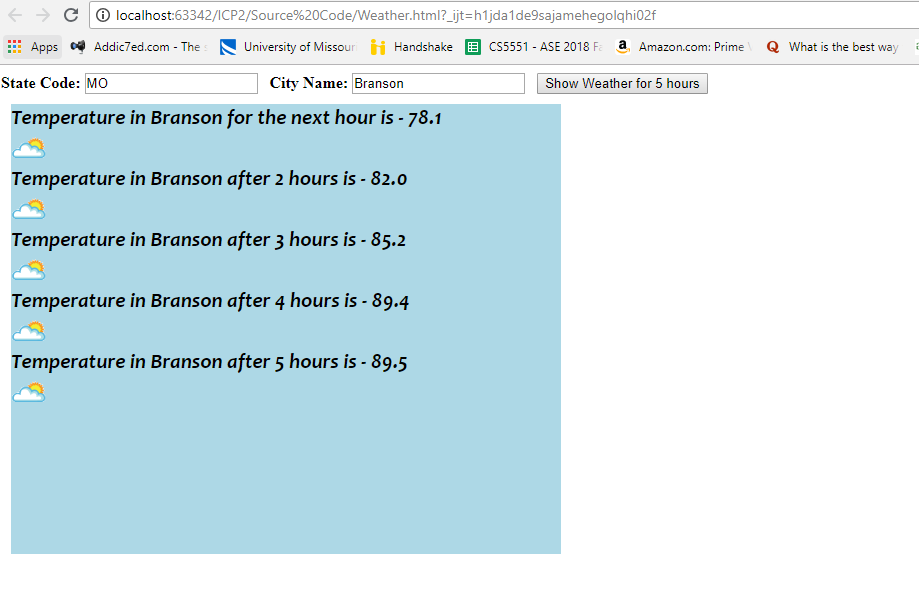
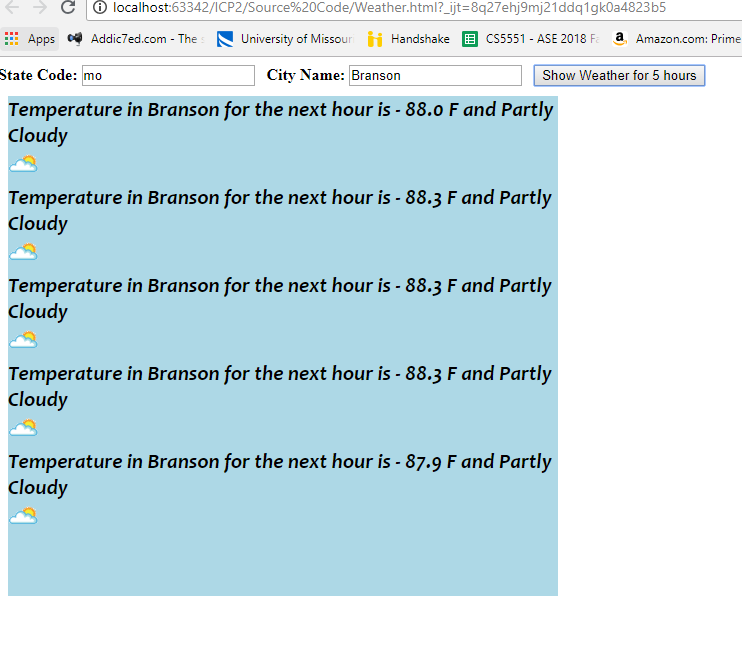
Modifications done in code part.

Changed region(s): [[0.0, 0.0, 1.0, 0.9347]]

diff --git a/ICP2/Source Code/Weather.html b/ICP2/Source Code/Weather.html
@@ -6,7 +6,7 @@
         .weatherModule
         {
             width: 550px;
-            height: 450px;
+            height: 500px;
             margin: 10px;
             font-size: 21px;
             font-style: italic;
@@ -22,23 +22,23 @@
     <b>City Name: </b><input type="text" ng-model="cityname"> &nbsp;
     <button id="btn" ng-click="getWeather()"> Show Weather for 5 hours </button>
     </br>
-    <div class="weatherModule">
-        <b>{{currentweather()}}</b> <br>
-        <img height="35px" align="top" src={{currentIcon}}><br>
+    <div  class="weatherModule">
+        <b>{{currentweather[0]}}</b> <br>
+        <img height="30px" src={{currentIcon[0]}} > <br>
 
-        <b>{{currentweather1()}}</b> <br>
-        <img height="35px" align="top" src={{currentIcon1}}><br>
+        <b>{{currentweather[1]}}</b> <br>
+        <img height="30px" src={{currentIcon[1]}} > <br>
 
-        <b>{{currentweather2()}}</b> <br>
-        <img height="35px" align="top" src={{currentIcon2}}><br>
+        <b>{{currentweather[2]}}</b> <br>
+        <img height="30px" src={{currentIcon[2]}} > <br>
 
-        <b>{{currentweather3()}}</b> <br>
-        <img height="35px" align="top" src={{currentIcon3}}><br>
+        <b>{{currentweather[3]}}</b> <br>
+        <img height="30px" src={{currentIcon[3]}} > <br>
 
-        <b>{{currentweather4()}}</b> <br>
-        <img height="35px" align="top" src={{currentIcon4}}><br>
-
+        <b>{{currentweather[4]}}</b> <br>
+        <img height="30px" src={{currentIcon[4]}} > <br>
     </div>
+
 
 </div>
 
@@ -48,46 +48,25 @@
             console.log("hi");
             $scope.getWeather = function() {
                  $http.get('http://api.wunderground.com/api/4bbbc25f4f5946dd/hourly/q/'+$scope.statecode+'/'+$scope.cityname +'.json').success(function(data) {
-                    temp="";
+                    temp=[];
+                    weathers=[];
+                    icon=[];
                     console.log(data);
 
-                    // for (i=0;i<5;i++)
-                    //  {
-                    //      temp =temp+"  " +data.hourly_forecast[i].temp.english +"\n";
-                    //  }
+                    for (i=0;i<5;i++)
+                     {
+                         temp[i] =data.hourly_forecast[i].temp.english ;
+                         weathers[i]=data.hourly_forecast[i].condition;
+                         icon[i]= data.hourly_forecast[i].icon_url;
+                     }
 
-                     temp = data.hourly_forecast[0].temp.english;
-                     temp1 = data.hourly_forecast[1].temp.english;
-                     temp2 = data.hourly_forecast[2].temp.english;
-                     temp3 = data.hourly_forecast[3].temp.english;
-                     temp4 = data.hourly_forecast[4].temp.english;
+                     $scope.currentweather=[];
+                     for (j=0;j<5;j++) {
+                         $scope.currentweather[j]= "Temperature in " + $scope.cityname + " for the next hour is - " + temp[j] + " F and " + weathers[j] ;
+                     }
+                     $scope.currentIcon=[];
+                     $scope.currentIcon= icon;
 
-                     icon = data.hourly_forecast[0].icon_url;
-                     icon1 = data.hourly_forecast[1].icon_url;
-                     icon2 = data.hourly_forecast[2].icon_url;
-                     icon3 = data.hourly_forecast[3].icon_url;
-                     icon4 = data.hourly_forecast[4].icon_url;
-
-                    $scope.currentweather = function(){
-                        return "Temperature in "+$scope.cityname+" for the next hour is - "+temp
-                    };
-                     $scope.currentweather1 = function(){
-                         return "Temperature in "+$scope.cityname+" after 2 hours is - "+temp1
-                     };
-                     $scope.currentweather2 = function(){
-                         return "Temperature in "+$scope.cityname+" after 3 hours is - "+temp2
-                     };
-                     $scope.currentweather3 = function(){
-                         return "Temperature in "+$scope.cityname+" after 4 hours is - "+temp3
-                     };
-                     $scope.currentweather4 = function(){
-                         return "Temperature in "+$scope.cityname+" after 5 hours is - "+temp4
-                     };
-                     $scope.currentIcon = icon;
-                     $scope.currentIcon1 = icon1;
-                     $scope.currentIcon2 = icon2;
-                     $scope.currentIcon3 = icon3;
-                     $scope.currentIcon4 = icon4;
                 })
             }
 
